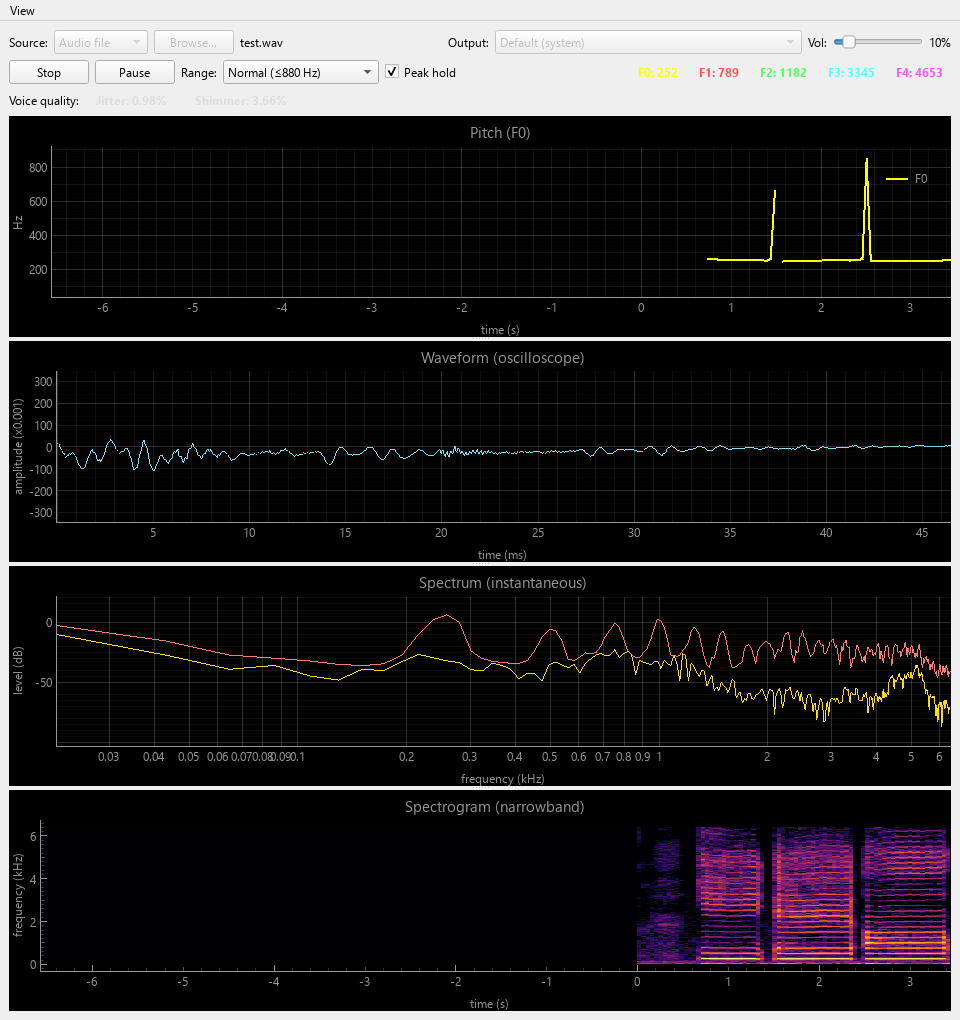
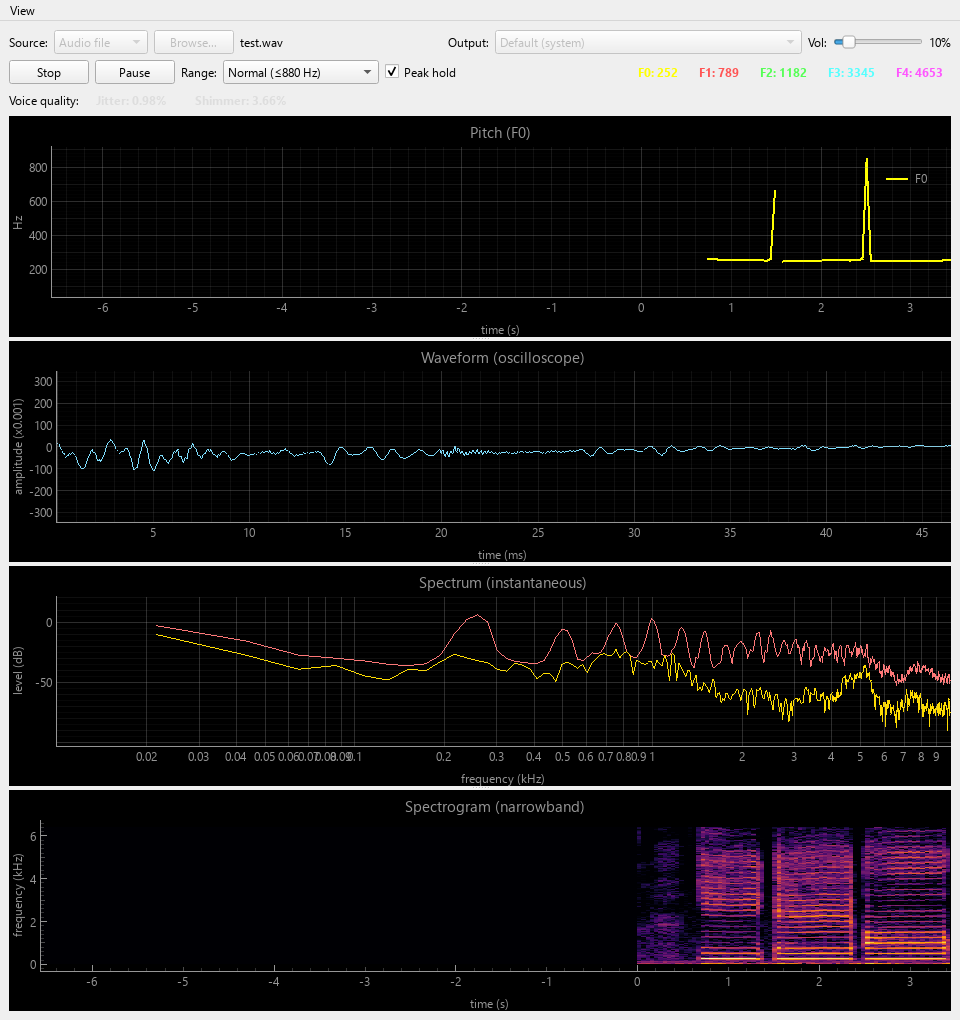
Spectrum view: dedicated 10 Hz to 10 kHz log axis
The instantaneous spectrum reused the narrowband spectrogram column (capped at
6400 Hz) and started near 20 Hz, so the very-low region ate the width and the
useful range was squashed.

- pipeline: new SpectrumFrame event, computed up to SPECTRUM_MAX_FREQ (10 kHz,
  clamped to Nyquist) from the narrowband window; spectrum_freqs exposed. The
  spectrogram stays at 6400 Hz.
- SpectrumPlot: fixed log X axis from 10 Hz to the top bin (~10 kHz), with view
  limits and X auto-range disabled so data never refits it; min_freq mask drops
  the sub-10 Hz / DC bins. Fed by SpectrumFrame.
- Verifies + smoke pass; screenshot shows the wider, better-proportioned axis.

diff --git a/src/xvalite/pipeline.py b/src/xvalite/pipeline.py
@@ -119,12 +119,28 @@ class WaveformFrame:
     samples: np.ndarray
 
 
+@dataclass(frozen=True)
+class SpectrumFrame:
+    """Instantaneous spectrum (dB per bin) for the live spectrum view.
+
+    Wider frequency extent than the spectrogram (up to ~10 kHz); the db array
+    aligns with ``AnalysisPipeline.spectrum_freqs``.
+    """
+
+    t: float
+    db: np.ndarray
+
+
 Event = Union[
-    PitchSample, FormantSample, VoiceQualitySample, SpectrogramColumn, WaveformFrame
+    PitchSample, FormantSample, VoiceQualitySample, SpectrogramColumn,
+    WaveformFrame, SpectrumFrame,
 ]
 
 # Oscilloscope window: most recent samples shown as the time-domain waveform.
 WAVEFORM_WINDOW = 2048  # ~46 ms @ 44.1 kHz
+
+# Instantaneous spectrum frequency ceiling (Hz), clamped to Nyquist per device.
+SPECTRUM_MAX_FREQ = 10000.0
 
 
 class AnalysisPipeline:
@@ -172,6 +188,11 @@ class AnalysisPipeline:
         self.spectrogram_freqs_wide = column_frequencies(
             samplerate, WIDEBAND_FFT, spectrogram_max_freq
         )
+        # Instantaneous spectrum: wider extent (up to ~10 kHz, capped at Nyquist).
+        self._spectrum_max = min(SPECTRUM_MAX_FREQ, samplerate / 2.0)
+        self.spectrum_freqs = column_frequencies(
+            samplerate, NARROWBAND_FFT, self._spectrum_max
+        )
 
         self._keep = max(
             self._pitch_win, self._formant_win, self._vq_win, NARROWBAND_WINDOW
@@ -185,6 +206,7 @@ class AnalysisPipeline:
         self._latest_spec_narrow: Optional[SpectrogramColumn] = None
         self._latest_spec_wide: Optional[SpectrogramColumn] = None
         self._latest_waveform: Optional[WaveformFrame] = None
+        self._latest_spectrum: Optional[SpectrumFrame] = None
 
         self._thread: Optional[threading.Thread] = None
         self._stop = threading.Event()
@@ -263,6 +285,10 @@ class AnalysisPipeline:
         with self._lock:
             return self._latest_waveform
 
+    def latest_spectrum(self) -> Optional[SpectrumFrame]:
+        with self._lock:
+            return self._latest_spectrum
+
     # -- worker ------------------------------------------------------------
     def _run(self) -> None:
         buffer = np.zeros(0, dtype=np.float32)
@@ -338,6 +364,12 @@ class AnalysisPipeline:
                         self._spec_max_freq,
                     )
                     self._emit(SpectrogramColumn(t, nb, wide=False))
+                    # Instantaneous spectrum: same window, wider frequency extent.
+                    spec = spectrum_column(
+                        buffer, self.samplerate, NARROWBAND_WINDOW, NARROWBAND_FFT,
+                        self._spectrum_max,
+                    )
+                    self._emit(SpectrumFrame(t, spec))
 
                 # Wideband: several columns per chunk at a finer hop, so its time
                 # resolution is much higher than the narrowband waterfall.
@@ -368,6 +400,8 @@ class AnalysisPipeline:
                 self._latest_vq = event
             elif isinstance(event, WaveformFrame):
                 self._latest_waveform = event
+            elif isinstance(event, SpectrumFrame):
+                self._latest_spectrum = event
             elif event.wide:
                 self._latest_spec_wide = event
             else:

diff --git a/src/xvalite/gui/main_window.py b/src/xvalite/gui/main_window.py
@@ -34,10 +34,12 @@ from ..audio.input import (
 from ..config import load_config, save_config
 from ..pipeline import (
     DEFAULT_SILENCE_DB,
+    SPECTRUM_MAX_FREQ,
     AnalysisPipeline,
     FormantSample,
     PitchSample,
     SpectrogramColumn,
+    SpectrumFrame,
     VoiceQualitySample,
     WaveformFrame,
 )
@@ -139,9 +141,11 @@ class MainWindow(QtWidgets.QMainWindow):
             column_rate_hz=self.samplerate / WIDEBAND_HOP,  # finer time resolution
         )
         self.osc_plot = WaveformPlot(self.samplerate)
+        spectrum_max = min(SPECTRUM_MAX_FREQ, self.samplerate / 2.0)
         self.spectrum_plot = SpectrumPlot(
-            column_frequencies(self.samplerate, NARROWBAND_FFT, DEFAULT_MAX_FREQ),
+            column_frequencies(self.samplerate, NARROWBAND_FFT, spectrum_max),
             peak_hold=bool(self._config.get("peak_hold", True)),
+            min_freq=10.0,
         )
 
         self._panel_widgets = {
@@ -351,13 +355,14 @@ class MainWindow(QtWidgets.QMainWindow):
             elif isinstance(ev, WaveformFrame):
                 if self.osc_plot.isVisible():
                     self.osc_plot.set_frame(ev.samples)
+            elif isinstance(ev, SpectrumFrame):
+                if self.spectrum_plot.isVisible():
+                    self.spectrum_plot.set_column(ev.db)
             elif isinstance(ev, SpectrogramColumn):
                 if ev.wide:
                     self.spectrogram_wide.append(ev.t, ev.db)
                 else:
                     self.spectrogram_narrow.append(ev.t, ev.db)
-                    if self.spectrum_plot.isVisible():
-                        self.spectrum_plot.set_column(ev.db)  # instantaneous spectrum
         if self.pitch_plot.isVisible():
             self.pitch_plot.refresh()
         if self.formant_plot.isVisible():

diff --git a/src/xvalite/gui/instant_plots.py b/src/xvalite/gui/instant_plots.py
@@ -48,7 +48,13 @@ class WaveformPlot(pg.PlotWidget):
 
 
 class SpectrumPlot(pg.PlotWidget):
-    def __init__(self, freqs: np.ndarray, peak_hold: bool = True, parent=None) -> None:
+    def __init__(
+        self,
+        freqs: np.ndarray,
+        peak_hold: bool = True,
+        min_freq: float = 10.0,
+        parent=None,
+    ) -> None:
         super().__init__(parent=parent)
         self.setTitle("Spectrum (instantaneous)")
         self.setLabel("left", "level", units="dB")
@@ -57,7 +63,9 @@ class SpectrumPlot(pg.PlotWidget):
         self.showGrid(x=True, y=True, alpha=0.3)
 
         f = np.asarray(freqs, dtype=float)
-        self._mask = f > 0.0  # drop the DC bin (log axis can't show 0 Hz)
+        # Keep bins at/above the display floor (drops DC and the very-low region
+        # that otherwise eats most of the log axis width).
+        self._mask = f >= min_freq
         self._freqs = f[self._mask]
         self._peak_hold = peak_hold
         self._peak: np.ndarray | None = None
@@ -66,8 +74,11 @@ class SpectrumPlot(pg.PlotWidget):
         self._peak_curve = self.plot(pen=pg.mkPen("#ff7777", width=1))  # dim peak-hold
         self._cur_curve = self.plot(pen=pg.mkPen("#ffdd00", width=1))   # current
         if self._freqs.size:
-            lo = np.log10(max(20.0, self._freqs[0]))
-            self.setXRange(lo, np.log10(self._freqs[-1]), padding=0)
+            hi = float(self._freqs[-1])
+            # Fixed log range from min_freq to the top bin; don't let data auto-refit it.
+            self.setXRange(np.log10(min_freq), np.log10(hi), padding=0)
+            self.setLimits(xMin=np.log10(min_freq), xMax=np.log10(hi))
+            self.enableAutoRange(axis="x", enable=False)
 
     def set_peak_hold(self, on: bool) -> None:
         self._peak_hold = on

diff --git a/Handoff.md b/Handoff.md
@@ -112,6 +112,7 @@
 | 2026-06-03 | Claude Code (Opus 4.8) | Splitterのパネル潰れ修正（collapsible無効＋最小高さ＋表示時に均等再配分） |
 | 2026-06-03 | Claude Code (Opus 4.8) | WaveSpectra相当の2ビュー追加: オシロスコープ(`WaveformFrame`)＋瞬時スペクトラム(対数軸・ピークホールド、`gui/instant_plots`)。Viewメニューは計6ペインに。peak_holdも設定永続化。スクショ更新・全検証合格 |
 | 2026-06-03 | Claude Code (Opus 4.8) | オシロ改善: 表示窓46msへ拡大＋縦軸を信号追従の自動ゲイン化（静かな入力でも見やすく）。広帯域SGをサブチャンクホップ(256≒5.8ms)で生成し時間分解能を狭帯域の約8倍に。verify_pipelineを各ストリーム単調性＋広帯域列数チェックに更新 |
+| 2026-06-03 | Claude Code (Opus 4.8) | 瞬時スペクトラムを専用イベント`SpectrumFrame`に分離（上限10kHz＝Nyquistでクランプ、スペクトログラムは6400のまま）。固定対数軸 10Hz〜10kHz に。低音域が広がりすぎる問題を解消 |
 
 ### 技術メモ: フォルマント分析の高速化余地
 - 現状フォルマントとJitter/Shimmerは同じ1秒カデンス(`SlowSample`)に束ねている。1秒は要件上の選択で技術的限界ではない。

diff --git a/CLAUDE.md b/CLAUDE.md
@@ -139,7 +139,8 @@ binaries (libsndfile, PortAudio, the Praat extension). Verified to launch;
     instance each for narrowband and wideband.
   - `gui/instant_plots.py` — `WaveformPlot` (oscilloscope, ~46 ms window, Y auto-gains to
     the signal so quiet input still fills the view) and `SpectrumPlot` (instantaneous FFT,
-    log freq axis, optional peak-hold). WaveSpectra-style "now" views; replace data each tick.
+    fixed log axis 10 Hz–10 kHz, optional peak-hold; fed by `SpectrumFrame`, which spans
+    wider than the 6400 Hz spectrogram). WaveSpectra-style "now" views; replace data each tick.
   - `gui/main_window.py` — `MainWindow`: owns the pipeline lifecycle. Source row
     (Microphone + input-device dropdown / Audio file + Browse… + output-device dropdown +
     volume slider) → Start builds source+pipeline; QTimer polls
